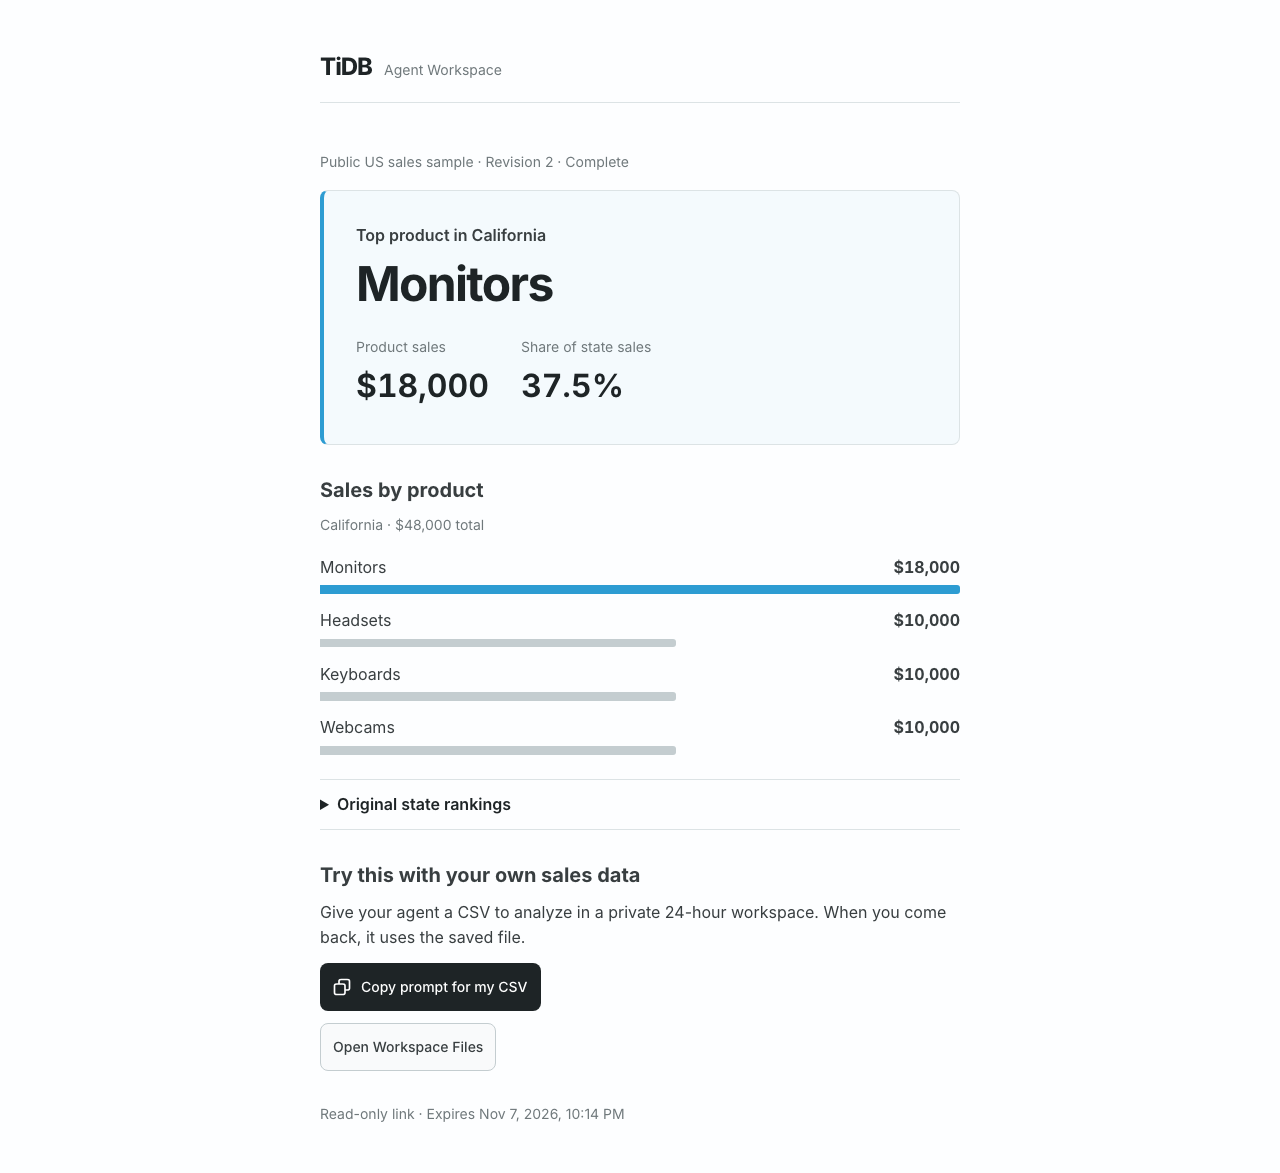
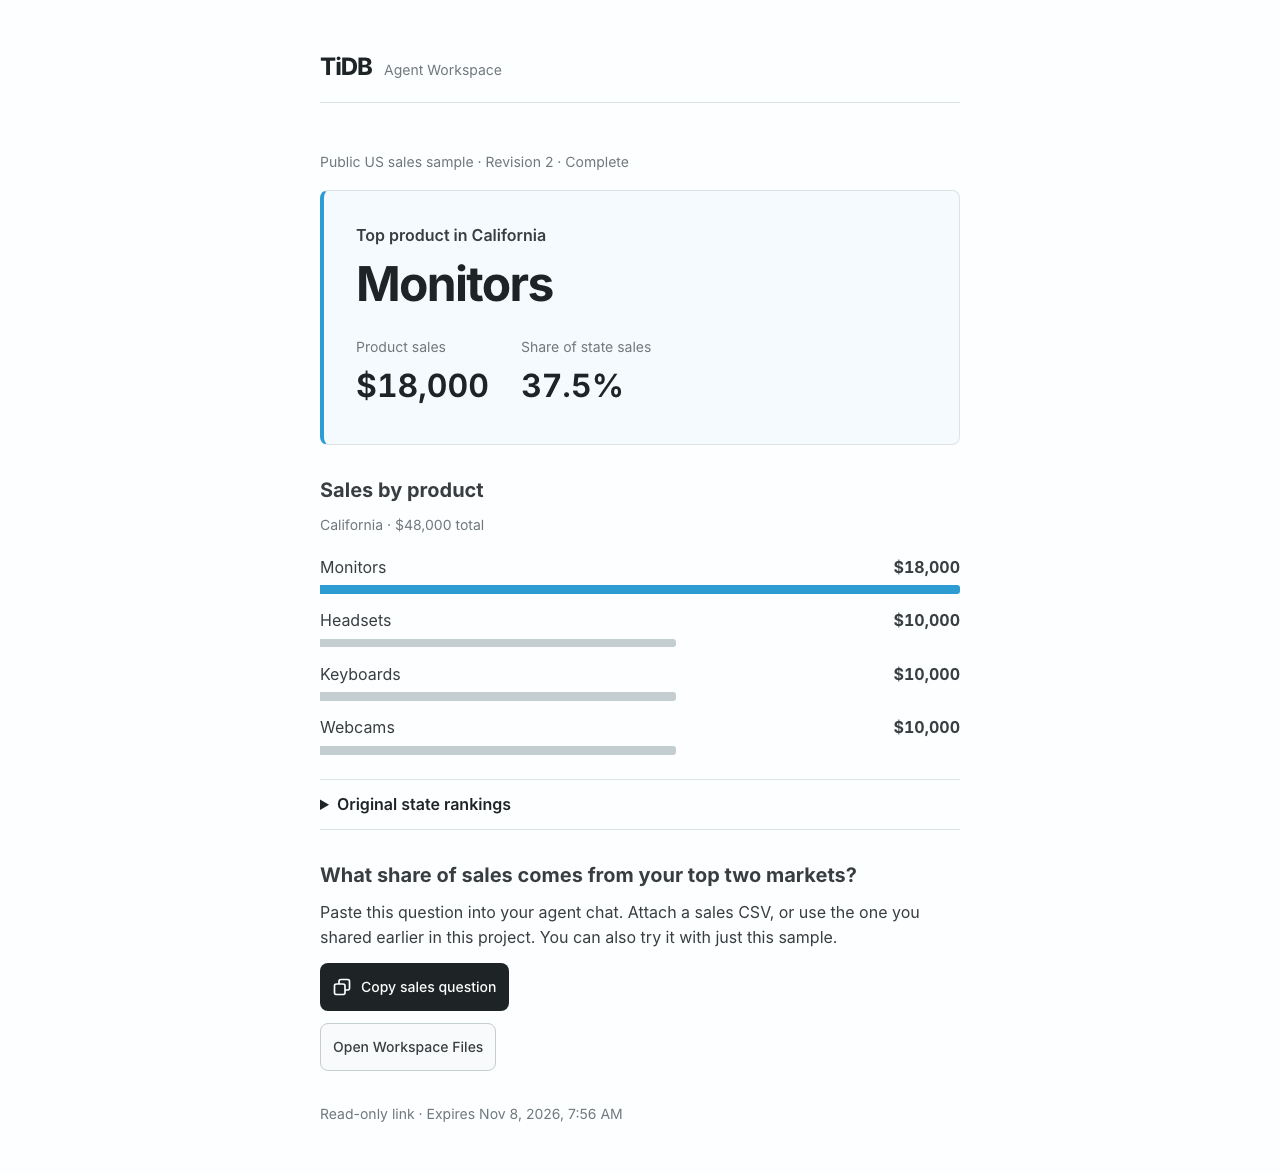
fix(studio): give the agent a sales question it can answer immediately

Changed region(s): [[0.25, 0.7366, 0.7188, 0.8593], [0.4062, 0.9207, 0.4688, 0.9514]]

diff --git a/src/features/reports/TrialPrompt.tsx b/src/features/reports/TrialPrompt.tsx
@@ -7,15 +7,15 @@ const trialInstruction = `Follow the official Drive9 skill at ${skillUrl} to fin
 
 export function TrialPrompt({
   leadingState,
-  privateCsv = false,
+  sampleSales,
 }: {
   leadingState?: string;
-  privateCsv?: boolean;
+  sampleSales?: string;
 }) {
   const followUp = leadingState !== undefined;
-  const compact = followUp || privateCsv;
-  const prompt = privateCsv
-    ? `Follow ${skillUrl} to analyze my own CSV in this project. Resume the existing private CSV workspace if one is bound. Otherwise ask which CSV to upload to a free 24-hour workspace. Use only the file I select, save the analysis locally, and give me the report.`
+  const compact = followUp || sampleSales !== undefined;
+  const prompt = sampleSales
+    ? `Follow ${skillUrl} to answer: How much of total sales comes from the top two markets? Use the CSV I attach or name, or resume my saved CSV in this project. Save private findings locally. If I have neither, answer now from these public sample figures: ${sampleSales}. Show the calculation and label it as the public sample. Then tell me I can attach a CSV or give its filename here to try my data. Reply in the language we have been using. In a new chat, use ${navigator.language}.`
     : followUp
       ? `Follow ${skillUrl} in the local project that created my Drive9 sales report. Add the top product by sales in ${leadingState} and its share of state sales to the same report, then give me the updated Studio link.`
       : trialInstruction;
@@ -42,7 +42,7 @@ export function TrialPrompt({
           }
         }}
       >
-        {privateCsv ? 'Copy prompt for my CSV' : followUp ? 'Copy follow-up' : 'Copy prompt'}
+        {sampleSales ? 'Copy sales question' : followUp ? 'Copy follow-up' : 'Copy prompt'}
       </Button>
       {result === 'manual' && (
         <Textarea
@@ -60,7 +60,9 @@ export function TrialPrompt({
       {(!compact || result === 'copied') && (
         <Text size="sm" ta={compact ? 'left' : 'center'} role="status">
           {result === 'copied'
-            ? 'Copied. Paste it into your project chat.'
+            ? sampleSales
+              ? 'Copied. Paste into your agent chat. You can attach a CSV in the same message.'
+              : 'Copied. Paste it into your project chat.'
             : 'No account needed · 48-hour trial'}
         </Text>
       )}

diff --git a/src/features/reports/TrialReportContent.tsx b/src/features/reports/TrialReportContent.tsx
@@ -116,13 +116,18 @@ export function TrialReportContent({ report }: { report: SalesReport }) {
           </details>
           <section aria-labelledby="own-sales">
             <Title order={2} id="own-sales">
-              Try this with your own sales data
+              What share of sales comes from your top two markets?
             </Title>
             <Text mb="sm">
-              Give your agent a CSV to analyze in a private 24-hour workspace. When you come back,
-              it uses the saved file.
+              Paste this question into your agent chat. Attach a sales CSV, or use the one you
+              shared earlier in this project. You can also try it with just this sample.
             </Text>
-            <TrialPrompt privateCsv />
+            <TrialPrompt
+              sampleSales={`${report.states
+                .slice(0, 2)
+                .map(([state, amount]) => `${state} ${money.format(amount)}`)
+                .join(', ')} out of ${money.format(total)} across all states`}
+            />
             <Button
               mt="sm"
               component="a"

diff --git a/console/public/skills/drive9-workspace/private_csv.py b/console/public/skills/drive9-workspace/private_csv.py
@@ -57,7 +57,7 @@ def request(base, key, route, method="GET", body=None, headers=None):
 
 def selected_csv(file):
     if not file or file.suffix.lower() != ".csv" or not file.is_file():
-        raise ValueError("Give the agent the path of the CSV to upload.")
+        raise ValueError("Attach your CSV in the chat or tell your agent its filename.")
     with file.open("rb") as handle:
         data = handle.read(LIMIT + 1)
     if not data or len(data) > LIMIT or b"\0" in data:
@@ -94,6 +94,8 @@ def private_csv(
     directory.mkdir(parents=True, exist_ok=True, mode=0o700)
     path, cache = directory / "binding.json", directory / "source.csv"
     with FileLock(str(directory / "binding.lock")):
+        if action == "resume" and not path.exists():
+            return {"status": "needs-file"}
         state = json.loads(path.read_text()) if path.exists() else {}
         store = store_factory()
         if action == "forget" or state.get("expiresAt", now() + 1) <= now():

diff --git a/console/public/skills/drive9-workspace/install.py b/console/public/skills/drive9-workspace/install.py
@@ -96,7 +96,7 @@ def install_assets(skills, runtime):
 
 
 # fmt: off
[2 lines of base64/hex data omitted]
 # fmt: on
 
 if __name__ == "__main__":

diff --git a/server/test-support/private_csv_helper.py b/server/test-support/private_csv_helper.py
@@ -60,6 +60,10 @@ def run(directory):
     client.request = api
     def invoke(action, file=None, path=project):
         return client.private_csv(client.PRODUCTION,path,home,action,file,lambda:store,lambda:clock[0])
+    def unexpected_store():
+        raise AssertionError("an empty project should not open a credential store")
+    assert client.private_csv(client.PRODUCTION, project, home, "resume", store_factory=unexpected_store) == {"status":"needs-file"}
+    assert not calls
     try:
         invoke("upload", source)
         raise AssertionError("lost write receipt was confirmed")

diff --git a/console/public/skills/drive9-workspace/SKILL.md b/console/public/skills/drive9-workspace/SKILL.md
@@ -18,7 +18,7 @@ For the Studio free-trial prompt or a request to continue its sales report, use 
 **Saved report (`synced`).** Lead with the finding and its calculation in one sentence. Give the clickable `studioUrl` (“View report in Studio”) and a single “Local Markdown” link using the absolute `report` path. Describe the Studio link as read-only to anyone with the link until the original expiry in the user's timezone. Use descriptive labels so internal paths stay out of the reply.
 
 - **Version 1:** End with one question the user can accept right here, naming the leading state: “Want me to add California’s top product and its share of the state’s sales to this report?” Wait for their answer. A “yes”, “好” or equivalent in context means run `products` in this same project. No copy/paste, tool switch or repeated setup is needed.
-- **Version 2 (including reopening a completed report):** Give the verified product, sales and share. On an update, tell the user the finding is now in the same report and return the original Studio link. On a reopen, describe what is already there. The sample analysis is complete. If the user wants to try their own CSV, offer to open or upload it from this chat using the private CSV workflow below.
+- **Version 2 (including reopening a completed report):** Give the verified product, sales and share. On an update, tell the user the finding is now in the same report and return the original Studio link. On a reopen, describe what is already there. The sample analysis is complete. Offer one useful next question in the same chat: “Want to see what share of sales comes from the top two states?” On acceptance, add the top two amounts from the verified state rankings and divide by total sales. Give the calculation in chat. If they ask for their own data, use the private workflow.
 - **Switching agents:** Only when the user wants a handoff, give one portable prompt for another local agent in the same project: “Follow https://drive9.ai/studio/skills/drive9-workspace/SKILL.md to continue my Drive9 sales report in this project and add the top product in the leading state.” The first-version Studio report also offers a copyable follow-up.
 - If an older helper returns `synced` without `studioUrl`, update it once with the official installer and repeat the same command in the same project. Only show a Studio link returned by the helper.
 
@@ -28,9 +28,13 @@ When the task calls for an existing customer Workspace or spending, explain that
 
 ## My own CSV, without an account
 
-When the user asks to analyze their own CSV with Drive9, use the isolated Python and installer described above. If `private_csv.py` is missing, update once with the current official installer. Run the sibling `private_csv.py` with `-I` in the user's project. Authenticate only through the helper and OS credential store.
+If no file was selected and the private state directory (`~/.drive9/private-csv/`) does not exist, go straight to the no-file response below. This also works on a new machine before installing anything. Otherwise use the isolated Python described above. If `private_csv.py` is missing or predates the `needs-file` result, update once with the current official installer. Run the sibling `private_csv.py` with `-I` in the user's project. Authenticate only through the helper and OS credential store.
 
-- **First upload.** Use `upload <path>` for the exact local CSV the user selected. When no file was named, first try `resume` to find this project's existing source. If there is none, ask which CSV to use. Never scan for files to upload. The first upload opens an independent 24-hour Workspace for one UTF-8 CSV up to 1 MiB.
+- **File selected.** An attachment, a file reference or an unambiguous filename in the project is a selection. Resolve it yourself and run `upload <path>`. For a filename, look only for that name in the project; if several match, let the user choose by short folder name. Never pick a different file or scan the project for upload candidates. The first upload opens a private 24-hour Workspace.
+- **No file selected.** Resume the saved CSV in this project. On `needs-file`, follow the user's request in the language of the conversation:
+  - For the sales question copied from Studio, answer it immediately using the public figures in the prompt. Show the calculation, label it as the public sample, and finish with “To compare your sales, attach a CSV here or tell me its filename.” Give the answer in chat without starting a public trial or changing the saved report. If the user asks only for the sample, go straight to those figures.
+  - For a request specifically about the user's own data, say “Attach your sales CSV here, or tell me its filename. You can also say ‘use the sample’ to try this first.” Wait for their choice. An explicit sample choice runs the public workflow if there are no sample figures in context.
+  - Keep credential state and path syntax out of the handoff. Explain a size or encoding limit only if it actually blocks the selected file. A failed resume of an existing source is a recovery case; report it rather than silently switching data.
 - **Continue.** Run `resume` without a path, including in another local agent in the same project. Use the returned absolute `source` path for the requested analysis. The helper checks the current remote file, restores a missing local copy and reuses unchanged content. Reopening a completed report is a read.
 - **Report.** Answer the user's question using the selected data. Save or update the project's local Markdown report, then return a clickable local file link. Keep private results out of public sample links. For a failed or missing upload, report what actually succeeded.
 - **File changes.** Use `replace <path>` only when the user explicitly selects a replacement. If the current version changed, resume and reconcile before retrying. An expired binding ends remote access and retains local files. Only start another timed Workspace with `new <path>` on explicit request. `forget` removes the local credential.

diff --git a/docs/standards/product-experience.md b/docs/standards/product-experience.md
@@ -90,7 +90,7 @@ After the first saved agent report, name the finding and offer one concrete foll
 person can accept in the current chat. Reserve cross-agent handoff instructions for someone
 who chooses that path. When a follow-up changes the question, lead the original report link with the new finding
 and the data that explains it. Keep the earlier analysis available as context.
-For a private CSV, lead with the agent uploading the explicitly selected file once and continuing from its saved remote version in the same project. Keep private results separate from public sample links.
+For a private CSV, lead with the agent uploading the explicitly selected file once and continuing from its saved remote version in the same project. Keep private results separate from public sample links. A copied sample question should yield a named finding even in an empty project. An attachment or unambiguous filename is sufficient to select private data; the agent resolves the path and explains file limits only when they affect that selection.
 Opening Files from a completed sample should reach the upload action in the reader’s own or temporary workspace.
 Verify the click from a signed-out browser as well as a returning session. Viewing the report alone starts no workspace.
 
